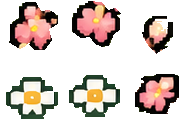
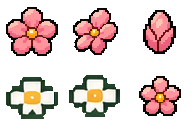
styling changes

diff --git a/game/field-animation.js b/game/field-animation.js
@@ -77,11 +77,33 @@
   function branchPoint(f,u,bend) {
     return [f.root[0]+(f.tip[0]-f.root[0])*u+bend*u*u, f.root[1]+(f.tip[1]-f.root[1])*u];
   }
+  // Two-pixel clusters match the painted foliage instead of smooth vector lines.
+  const leafSprite=document.createElement('canvas');
+  leafSprite.width=11;leafSprite.height=13;
+  const leafCtx=leafSprite.getContext('2d');
+  const leafColors={'#':'#161e13',s:'#435e2b',g:'#718c39',h:'#a0b952'};
+  [
+    '         ##',
+    '       ##g#',
+    '      #ghg#',
+    '     #ghhg#',
+    '    #ghhgs#',
+    '   #ghhgss#',
+    '  #ghhgss# ',
+    ' #ghhgss#  ',
+    ' #ghgss#   ',
+    '#ghgss#    ',
+    '#ggss#     ',
+    '#gss#      ',
+    ' ###       '
+  ].forEach((row,y)=>Array.from(row).forEach((pixel,x)=>{
+    if(leafColors[pixel]){leafCtx.fillStyle=leafColors[pixel];leafCtx.fillRect(x,y,1,1);}
+  }));
   function drawFlower(ctx,heads,f,t,headOnly=false) {
     // Wind bends a quadratic stem, with zero displacement at the root. The
     // flower head follows the tip and its tangent instead of moving a rectangle.
     const bend=(Math.sin(t*.85+f.phase)+.16*Math.sin(t*1.55+f.phase))*f.sway;
-    const tip=branchPoint(f,1,bend), control=branchPoint(f,.5,0);
+    const tip=branchPoint(f,1,bend);
     if(headOnly) {
       const sx=f.sprite%3*64,sy=Math.floor(f.sprite/3)*64;
       ctx.save();ctx.translate(...tip);ctx.rotate(bend*.009);
@@ -89,15 +111,16 @@
       ctx.imageSmoothingEnabled=false;
       ctx.drawImage(heads,sx,sy,64,64,-32,-32,64,64);ctx.restore();return;
     }
-    ctx.lineCap='round'; ctx.lineJoin='round';
-    for(const [color,width] of [['#161e13',10],['#8fa940',5]]) {
-      ctx.beginPath(); ctx.moveTo(...f.root); ctx.quadraticCurveTo(...control,...tip); ctx.strokeStyle=color; ctx.lineWidth=width; ctx.stroke();
+    const steps=Math.ceil(Math.hypot(tip[0]-f.root[0],tip[1]-f.root[1])/2);
+    const points=Array.from({length:steps+1},(_,i)=>branchPoint(f,i/steps,bend).map(v=>Math.round(v/2)*2));
+    for(const [color,size,offset] of [['#161e13',8,-4],['#718c39',4,-2],['#a0b952',2,-2]]) {
+      ctx.fillStyle=color;
+      for(const [x,y] of points)ctx.fillRect(x+offset,y+offset,size,size);
     }
     const u=f.sway>3?.38:.55, leaf=branchPoint(f,u,bend), direction=f.tip[0]<f.root[0]?-1:1;
-    ctx.save(); ctx.translate(...leaf); ctx.rotate(bend*.008);
-    ctx.beginPath(); ctx.moveTo(0,1); ctx.lineTo(direction*7,-13); ctx.lineTo(direction*16,-18);
-    ctx.lineTo(direction*13,-7); ctx.lineTo(direction*5,2); ctx.closePath();
-    ctx.fillStyle='#769740'; ctx.strokeStyle='#26321c'; ctx.lineWidth=3; ctx.fill(); ctx.stroke(); ctx.restore();
+    ctx.save();ctx.translate(...leaf.map(v=>Math.round(v/2)*2));ctx.scale(direction,1);
+    ctx.imageSmoothingEnabled=false;
+    ctx.drawImage(leafSprite,-4,-24,22,26);ctx.restore();
   }
   function drawTree(ctx,img,x,y,pivot,angle) {
     ctx.save(); ctx.translate(...pivot); ctx.rotate(angle); ctx.translate(-pivot[0],-pivot[1]);

diff --git a/index.html b/index.html
@@ -114,7 +114,7 @@
       <small>Mouse or ← → to fly · Click or Space to beam · 1 2 3 to travel · I for inventory</small>
     </section>
 
-    <dialog id="world-dialog" class="world-dialog" aria-labelledby="dialog-title"><div class="dialog-rim"><span id="dialog-eyebrow">GALACTIC FIELD NOTES</span><button data-action="close-dialog" class="close-dialog" aria-label="Close">×</button></div><div class="dialog-content" id="dialog-content"></div></dialog>
+    <dialog id="world-dialog" class="world-dialog" aria-labelledby="dialog-title"><div class="dialog-rim"><span id="dialog-eyebrow">GALACTIC FIELD NOTES</span><button type="button" data-action="close-dialog" class="close-dialog" aria-label="Close"><svg viewBox="0 0 9 9" aria-hidden="true" focusable="false" shape-rendering="crispEdges"><path fill="currentColor" d="M0 0h2v1h1v1h1v1h1V2h1V1h1V0h2v2H8v1H7v1H6v1h1v1h1v1h1v2H7V8H6V7H5V6H4v1H3v1H2v1H0V7h1V6h1V5h1V4H2V3H1V2H0z"/></svg></button></div><div class="dialog-content" id="dialog-content"></div></dialog>
     <div id="announcement" class="sr-only" aria-live="polite"></div>
     <noscript><div class="noscript">Enable JavaScript to run your alien dairy.</div></noscript>
   </main>

diff --git a/game/style.css b/game/style.css
@@ -500,7 +500,18 @@ body.drag-item .cow-card:not(.empty) { border-style: dashed; }
 .world-dialog, .world-dialog[data-kind="storage"] { width: min(880px, calc(100% - 24px)); }
 .dialog-rim { padding: 12px 16px; border-bottom-width: var(--ui-pixel); }
 .dialog-rim > span { font-size: 18px; letter-spacing: 0; }
-.close-dialog { width: 40px; height: 40px; font-size: 28px; }
+.dialog-rim .close-dialog {
+  display: grid;
+  place-items: center;
+  flex: 0 0 40px;
+  width: 40px;
+  height: 40px;
+  border-width: 8px;
+  border-image-width: 8px;
+  padding: 0;
+  line-height: 0;
+}
+.close-dialog svg { display: block; width: 18px; height: 18px; }
 .dialog-content { max-height: calc(min(86dvh, 780px) - 88px); }
 .dialog-content h2 { font-size: 32px; letter-spacing: 0; }
 .dialog-content h2 small { font-size: 20px; }

diff --git a/docs/art-animation-notes.md b/docs/art-animation-notes.md
@@ -52,6 +52,21 @@ Style reference: `assets/FieldBg.png`. Transparent output saved as
 `assets/scenery/flower-heads-source.png`; prepared atlas saved as
 `assets/scenery/field-flower-heads.png`.
 
+## Repaired flower sprites (November 2026)
+
+The pink buds and open flowers now use complete isolated silhouettes from
+`assets/scenery/flower-heads-repaired-source.png`, created using built-in
+ImageGen. The original landscape extraction left missing outline and petal
+pixels at the tops and middles of the plants. The builder keeps original daisy
+art, extracts the repaired pink sprites, thresholds their alpha to solid
+silhouettes, and scales them to the native sizes without smoothing. The final
+runtime atlas is `assets/scenery/field-flower-heads.png`.
+
+Edit targets: the old runtime atlas and `flower-heads-source.png` as a shape
+reference. Exact prompt:
+
+> Use case: precise-object-edit. Asset type: tiny pixel-art flower blossom sprite sheet for an existing farm game. Image 1 is the edit target: a 3-column 2-row sheet containing damaged incomplete flower heads. Image 2 shows the desired complete shapes, only as supporting shape reference. Repair the broken or missing petal edges, interiors and outlines in image 1. Retain its native chunky broad pixel clusters, pink/coral/cream palette and heavy nearly black outlines. Six isolated sprites on a truly transparent background in equally sized cells in a strict 3-column 2-row grid: upper left a complete five-petal coral pink blossom with gold center; upper middle a slightly angled complete five-petal pink blossom with gold center; upper right a complete closed pointed pink flower bud; lower left and lower middle the original complete small ivory daisies with gold centers; lower right a small complete five-petal pink blossom with gold center. Every silhouette must be closed and complete, every petal interior fully opaque; no stray pixels, no missing patches, no grass or stems, no shadows or glows, no text. Generous transparent padding around each sprite; sprites cannot touch or overlap. Pixel art with large flat pixel clusters matching image 1. Keep exactly the same arrangement and shapes as the two references, while completing the damaged flowers.
+
 ## Verification
 
 Run with the local game server and a Playwright installation available through

diff --git a/assets/scenery/README.md b/assets/scenery/README.md
@@ -12,7 +12,7 @@ No background rectangle moves with a tree, leaf, or flower.
   the herd in `farm-foreground` so cows stay behind the foreground.
 - `field-clouds.png`: transparent cloud texture atlas from `FieldBg.png`.
 - `field-tree-left.png`, `field-tree-right.png`: transparent original trees.
-- `field-flower-heads.png`: six original blossom heads from `FieldBg.png` on a
+- `field-flower-heads.png`: four repaired pink blossoms and two original daisies on a
   192×128 transparent atlas. Padded 64×64 cells preserve the painting's native
   scale, colours, pixel clusters, and broad dark contours.
 - `field-ground-clean.png`: the clean plate used only through four local plant
@@ -33,6 +33,10 @@ The game loads the prepared PNGs directly, including in `file://` mode.
   layers. Individual stars fade independently over the clean sky.
 - `flower-heads-source.png`: retained earlier generated sheet; no longer used
   to prepare the flower atlas or by the game.
+- `flower-heads-repaired-source.png`: complete pink blossom and bud artwork
+  repaired with built-in ImageGen. The ambient-art builder extracts each pink
+  silhouette, removes translucent fringes, and scales with nearest-neighbour
+  sampling to the native flower sizes. Daisies still come from `FieldBg.png`.
 
 `scripts/build-ambient-art.cjs` prepares the star layers and flower atlas. Run it
 after `scripts/build-field-art.cjs` if rebuilding all the art. Both scripts use
